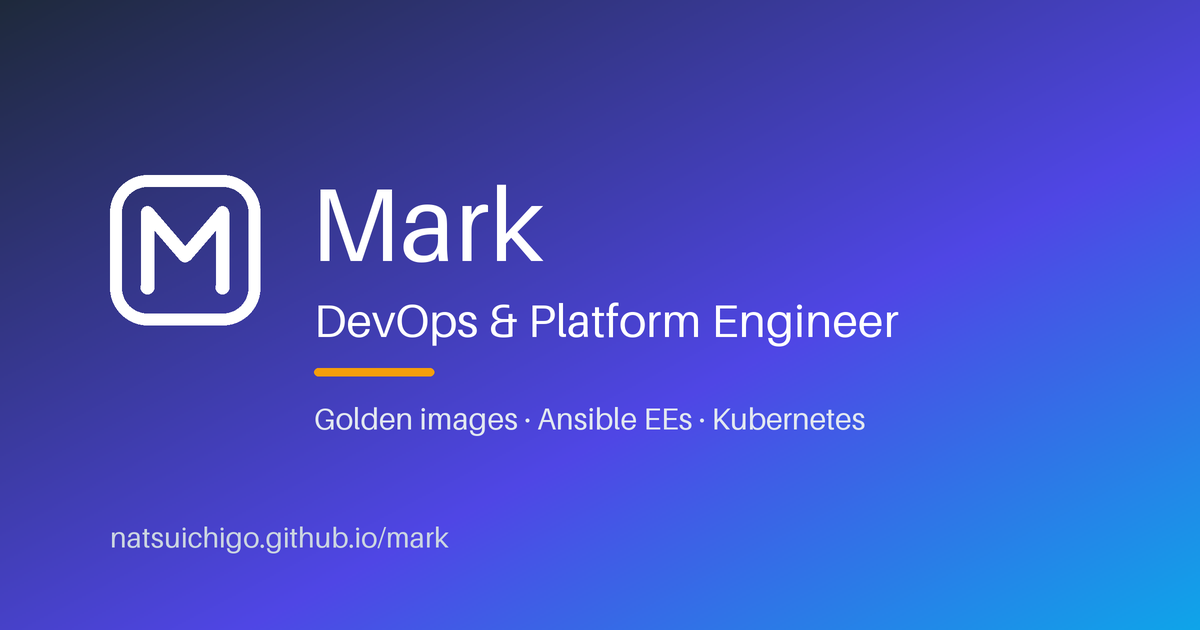
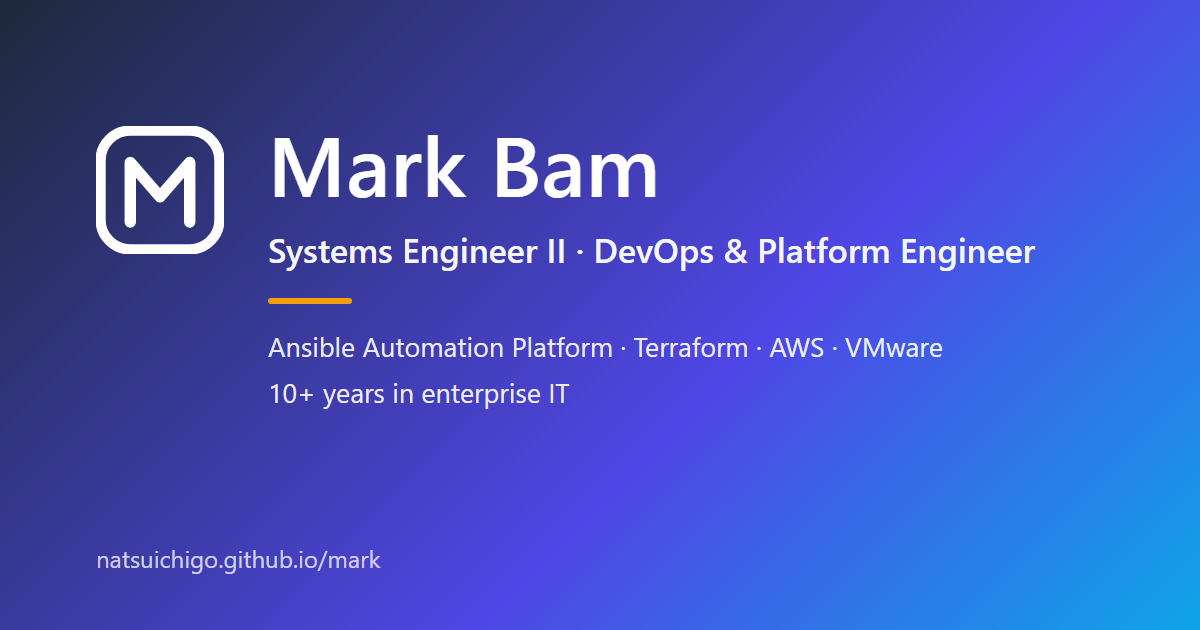
chore: remove outdated CV document

diff --git a/_deploy/index.html b/_deploy/index.html
@@ -3,8 +3,8 @@
 <head>
     <meta charset="utf-8">
     <meta name="viewport" content="width=device-width, initial-scale=1">
-    <title>Mark — DevOps &amp; Platform Engineer</title>
-    <meta name="description" content="Portfolio of Mark, DevOps and Platform Engineer: golden image pipelines, Ansible Execution Environments and a Kubernetes home lab.">
+    <title>Mark Bam — Systems Engineer II · DevOps &amp; Platform Engineer</title>
+    <meta name="description" content="10+ years in enterprise IT. Ansible Automation Platform, Terraform, AWS and VMware: golden image pipelines, Ansible Execution Environments and a Kubernetes home lab.">
     <link rel="stylesheet" href="./assets/hub.css">
     <link rel="stylesheet" href="./assets/site-chrome.css">
 
@@ -18,14 +18,14 @@
     <link rel="icon" href="./assets/favicon-32.png" sizes="32x32" type="image/png">
     <link rel="apple-touch-icon" href="./assets/apple-touch-icon.png">
     <meta property="og:type" content="website">
-    <meta property="og:site_name" content="Mark — DevOps &amp; Platform Engineer">
-    <meta property="og:title" content="Mark — DevOps &amp; Platform Engineer">
-    <meta property="og:description" content="Portfolio of Mark, DevOps and Platform Engineer: golden image pipelines, Ansible Execution Environments and a Kubernetes home lab.">
+    <meta property="og:site_name" content="Mark Bam — Systems Engineer II · DevOps &amp; Platform Engineer">
+    <meta property="og:title" content="Mark Bam — Systems Engineer II · DevOps &amp; Platform Engineer">
+    <meta property="og:description" content="10+ years in enterprise IT. Ansible Automation Platform, Terraform, AWS and VMware: golden image pipelines, Ansible Execution Environments and a Kubernetes home lab.">
     <meta property="og:url" content="https://natsuichigo.github.io/mark/">
-    <meta property="og:image" content="https://natsuichigo.github.io/mark/assets/og-image.png">
+    <meta property="og:image" content="https://natsuichigo.github.io/mark/assets/og-image.png?v=2">
     <meta property="og:image:width" content="1200">
     <meta property="og:image:height" content="630">
-    <meta property="og:image:alt" content="Mark — DevOps &amp; Platform Engineer">
+    <meta property="og:image:alt" content="Mark Bam — Systems Engineer II · DevOps &amp; Platform Engineer">
     <meta name="twitter:card" content="summary_large_image">
     <!-- /site-meta -->
 </head>

diff --git a/_deploy/about/index.html b/_deploy/about/index.html
@@ -3,8 +3,8 @@
 <head>
     <meta charset="utf-8">
     <meta name="viewport" content="width=device-width, initial-scale=1">
-    <title>About — Mark</title>
-    <meta name="description" content="About Mark, DevOps and Platform Engineer: skills, certifications, experience and contact details.">
+    <title>About — Mark Bam</title>
+    <meta name="description" content="Mark Bam, Systems Engineer II and DevOps &amp; Platform Engineer: experience, skills, certifications and education.">
     <link rel="stylesheet" href="../assets/hub.css">
     <link rel="stylesheet" href="../assets/site-chrome.css">
 
@@ -18,14 +18,14 @@
     <link rel="icon" href="../assets/favicon-32.png" sizes="32x32" type="image/png">
     <link rel="apple-touch-icon" href="../assets/apple-touch-icon.png">
     <meta property="og:type" content="website">
-    <meta property="og:site_name" content="Mark — DevOps &amp; Platform Engineer">
-    <meta property="og:title" content="About — Mark">
-    <meta property="og:description" content="About Mark, DevOps and Platform Engineer: skills, certifications, experience and contact details.">
+    <meta property="og:site_name" content="Mark Bam — Systems Engineer II · DevOps &amp; Platform Engineer">
+    <meta property="og:title" content="About — Mark Bam">
+    <meta property="og:description" content="Mark Bam, Systems Engineer II and DevOps &amp; Platform Engineer: experience, skills, certifications and education.">
     <meta property="og:url" content="https://natsuichigo.github.io/mark/about/">
-    <meta property="og:image" content="https://natsuichigo.github.io/mark/assets/og-image.png">
+    <meta property="og:image" content="https://natsuichigo.github.io/mark/assets/og-image.png?v=2">
     <meta property="og:image:width" content="1200">
     <meta property="og:image:height" content="630">
-    <meta property="og:image:alt" content="Mark — DevOps &amp; Platform Engineer">
+    <meta property="og:image:alt" content="Mark Bam — Systems Engineer II · DevOps &amp; Platform Engineer">
     <meta name="twitter:card" content="summary_large_image">
     <!-- /site-meta -->
 </head>

diff --git a/.claude/skills/md-to-docs/scripts/og-image.html b/.claude/skills/md-to-docs/scripts/og-image.html
@@ -1,0 +1,42 @@
+<!DOCTYPE html>
+<!-- Source for _deploy/assets/og-image.png (the link-preview image, 1200x630).
+     Re-render with: ./render_og_image.sh -->
+<html lang="en">
+<head>
+<meta charset="utf-8">
+<style>
+  html, body { margin: 0; width: 1200px; height: 630px; overflow: hidden; }
+  body {
+    background: linear-gradient(135deg, #1e293b 0%, #4f46e5 60%, #0ea5e9 100%);
+    font-family: "Segoe UI", "Helvetica Neue", Arial, sans-serif;
+    color: #ffffff;
+    position: relative;
+  }
+  .wrap { position: absolute; left: 96px; right: 96px; top: 120px; display: flex; gap: 44px; align-items: flex-start; }
+  svg { flex: none; width: 128px; height: 128px; margin-top: 6px; }
+  h1 { margin: 0; font-size: 84px; font-weight: 600; line-height: 1; letter-spacing: 0.5px; }
+  .role { margin: 22px 0 0; font-size: 34px; font-weight: 500; opacity: 0.95; }
+  .bar { width: 84px; height: 6px; border-radius: 3px; background: #f59e0b; margin: 26px 0 24px; }
+  .stack { margin: 0; font-size: 27px; opacity: 0.9; }
+  .years { margin: 10px 0 0; font-size: 27px; opacity: 0.9; }
+  .url { position: absolute; left: 96px; bottom: 56px; font-size: 24px; opacity: 0.75; }
+</style>
+</head>
+<body>
+  <div class="wrap">
+    <svg viewBox="0 0 56 56" aria-hidden="true">
+      <rect x="2" y="2" width="52" height="52" rx="13" fill="none" stroke="#fff" stroke-width="4.5"/>
+      <path d="M15 42 V16 L28 31 L41 16 V42" fill="none" stroke="#fff" stroke-width="5"
+            stroke-linecap="round" stroke-linejoin="round"/>
+    </svg>
+    <div>
+      <h1>Mark Bam</h1>
+      <p class="role">Systems Engineer II · DevOps &amp; Platform Engineer</p>
+      <div class="bar"></div>
+      <p class="stack">Ansible Automation Platform · Terraform · AWS · VMware</p>
+      <p class="years">10+ years in enterprise IT</p>
+    </div>
+  </div>
+  <div class="url">natsuichigo.github.io/mark</div>
+</body>
+</html>

diff --git a/_deploy/docs/packer-image-pipeline/index.html b/_deploy/docs/packer-image-pipeline/index.html
@@ -17,14 +17,14 @@
     <link rel="icon" href="../../assets/favicon-32.png" sizes="32x32" type="image/png">
     <link rel="apple-touch-icon" href="../../assets/apple-touch-icon.png">
     <meta property="og:type" content="website">
-    <meta property="og:site_name" content="Mark — DevOps &amp; Platform Engineer">
+    <meta property="og:site_name" content="Mark Bam — Systems Engineer II · DevOps &amp; Platform Engineer">
     <meta property="og:title" content="Packer Golden Image Pipeline">
     <meta property="og:description" content="Hardened vSphere golden images, built by Packer and Ansible on my home lab&#x27;s runners and validated inside the build so a bad image is never published.">
     <meta property="og:url" content="https://natsuichigo.github.io/mark/docs/packer-image-pipeline/">
-    <meta property="og:image" content="https://natsuichigo.github.io/mark/assets/og-image.png">
+    <meta property="og:image" content="https://natsuichigo.github.io/mark/assets/og-image.png?v=2">
     <meta property="og:image:width" content="1200">
     <meta property="og:image:height" content="630">
-    <meta property="og:image:alt" content="Mark — DevOps &amp; Platform Engineer">
+    <meta property="og:image:alt" content="Mark Bam — Systems Engineer II · DevOps &amp; Platform Engineer">
     <meta name="twitter:card" content="summary_large_image">
     <!-- /site-meta -->
 </head>

diff --git a/_deploy/docs/packer-image-pipeline/overview.html b/_deploy/docs/packer-image-pipeline/overview.html
@@ -16,14 +16,14 @@
     <link rel="icon" href="../../assets/favicon-32.png" sizes="32x32" type="image/png">
     <link rel="apple-touch-icon" href="../../assets/apple-touch-icon.png">
     <meta property="og:type" content="website">
-    <meta property="og:site_name" content="Mark — DevOps &amp; Platform Engineer">
+    <meta property="og:site_name" content="Mark Bam — Systems Engineer II · DevOps &amp; Platform Engineer">
     <meta property="og:title" content="Overview — Packer Golden Image Pipeline">
     <meta property="og:description" content="Hardened vSphere golden images, built by Packer and Ansible, validated inside the build, and run from my home lab.">
     <meta property="og:url" content="https://natsuichigo.github.io/mark/docs/packer-image-pipeline/overview.html">
-    <meta property="og:image" content="https://natsuichigo.github.io/mark/assets/og-image.png">
+    <meta property="og:image" content="https://natsuichigo.github.io/mark/assets/og-image.png?v=2">
     <meta property="og:image:width" content="1200">
     <meta property="og:image:height" content="630">
-    <meta property="og:image:alt" content="Mark — DevOps &amp; Platform Engineer">
+    <meta property="og:image:alt" content="Mark Bam — Systems Engineer II · DevOps &amp; Platform Engineer">
     <meta name="twitter:card" content="summary_large_image">
     <!-- /site-meta -->
 </head>

diff --git a/_deploy/docs/packer-image-pipeline/lessons.html b/_deploy/docs/packer-image-pipeline/lessons.html
@@ -16,14 +16,14 @@
     <link rel="icon" href="../../assets/favicon-32.png" sizes="32x32" type="image/png">
     <link rel="apple-touch-icon" href="../../assets/apple-touch-icon.png">
     <meta property="og:type" content="website">
-    <meta property="og:site_name" content="Mark — DevOps &amp; Platform Engineer">
+    <meta property="og:site_name" content="Mark Bam — Systems Engineer II · DevOps &amp; Platform Engineer">
     <meta property="og:title" content="Lessons &amp; Next Steps — Packer Golden Image Pipeline">
     <meta property="og:description" content="Design decisions that came from real failures, moving to the home lab, and what is left to do.">
     <meta property="og:url" content="https://natsuichigo.github.io/mark/docs/packer-image-pipeline/lessons.html">
-    <meta property="og:image" content="https://natsuichigo.github.io/mark/assets/og-image.png">
+    <meta property="og:image" content="https://natsuichigo.github.io/mark/assets/og-image.png?v=2">
     <meta property="og:image:width" content="1200">
     <meta property="og:image:height" content="630">
-    <meta property="og:image:alt" content="Mark — DevOps &amp; Platform Engineer">
+    <meta property="og:image:alt" content="Mark Bam — Systems Engineer II · DevOps &amp; Platform Engineer">
     <meta name="twitter:card" content="summary_large_image">
     <!-- /site-meta -->
 </head>

diff --git a/_deploy/docs/ansible-ee-pipeline/overview.html b/_deploy/docs/ansible-ee-pipeline/overview.html
@@ -16,14 +16,14 @@
     <link rel="icon" href="../../assets/favicon-32.png" sizes="32x32" type="image/png">
     <link rel="apple-touch-icon" href="../../assets/apple-touch-icon.png">
     <meta property="og:type" content="website">
-    <meta property="og:site_name" content="Mark — DevOps &amp; Platform Engineer">
+    <meta property="og:site_name" content="Mark Bam — Systems Engineer II · DevOps &amp; Platform Engineer">
     <meta property="og:title" content="Overview — Ansible EE Pipeline">
     <meta property="og:description" content="Build, test and promote Ansible Execution Environments for AAP, AWX and ansible-navigator, trimmed for my home lab.">
     <meta property="og:url" content="https://natsuichigo.github.io/mark/docs/ansible-ee-pipeline/overview.html">
-    <meta property="og:image" content="https://natsuichigo.github.io/mark/assets/og-image.png">
+    <meta property="og:image" content="https://natsuichigo.github.io/mark/assets/og-image.png?v=2">
     <meta property="og:image:width" content="1200">
     <meta property="og:image:height" content="630">
-    <meta property="og:image:alt" content="Mark — DevOps &amp; Platform Engineer">
+    <meta property="og:image:alt" content="Mark Bam — Systems Engineer II · DevOps &amp; Platform Engineer">
     <meta name="twitter:card" content="summary_large_image">
     <!-- /site-meta -->
 </head>

diff --git a/_deploy/docs/platform-lab/index.html b/_deploy/docs/platform-lab/index.html
@@ -17,14 +17,14 @@
     <link rel="icon" href="../../assets/favicon-32.png" sizes="32x32" type="image/png">
     <link rel="apple-touch-icon" href="../../assets/apple-touch-icon.png">
     <meta property="og:type" content="website">
-    <meta property="og:site_name" content="Mark — DevOps &amp; Platform Engineer">
+    <meta property="og:site_name" content="Mark Bam — Systems Engineer II · DevOps &amp; Platform Engineer">
     <meta property="og:title" content="Platform Lab">
     <meta property="og:description" content="A full platform stack on an 8 GB laptop, deployed from Git by Argo CD. Work in progress: the GitOps core and in-cluster GitHub runners are underway.">
     <meta property="og:url" content="https://natsuichigo.github.io/mark/docs/platform-lab/">
-    <meta property="og:image" content="https://natsuichigo.github.io/mark/assets/og-image.png">
+    <meta property="og:image" content="https://natsuichigo.github.io/mark/assets/og-image.png?v=2">
     <meta property="og:image:width" content="1200">
     <meta property="og:image:height" content="630">
-    <meta property="og:image:alt" content="Mark — DevOps &amp; Platform Engineer">
+    <meta property="og:image:alt" content="Mark Bam — Systems Engineer II · DevOps &amp; Platform Engineer">
     <meta name="twitter:card" content="summary_large_image">
     <!-- /site-meta -->
 </head>

diff --git a/_deploy/docs/portfolio-site/index.html b/_deploy/docs/portfolio-site/index.html
@@ -17,14 +17,14 @@
     <link rel="icon" href="../../assets/favicon-32.png" sizes="32x32" type="image/png">
     <link rel="apple-touch-icon" href="../../assets/apple-touch-icon.png">
     <meta property="og:type" content="website">
-    <meta property="og:site_name" content="Mark — DevOps &amp; Platform Engineer">
+    <meta property="og:site_name" content="Mark Bam — Systems Engineer II · DevOps &amp; Platform Engineer">
     <meta property="og:title" content="This Portfolio Site">
     <meta property="og:description" content="A static GitHub Pages site with no build step: pages written in Markdown, generated by Claude Code skills, deployed by GitHub Actions.">
     <meta property="og:url" content="https://natsuichigo.github.io/mark/docs/portfolio-site/">
-    <meta property="og:image" content="https://natsuichigo.github.io/mark/assets/og-image.png">
+    <meta property="og:image" content="https://natsuichigo.github.io/mark/assets/og-image.png?v=2">
     <meta property="og:image:width" content="1200">
     <meta property="og:image:height" content="630">
-    <meta property="og:image:alt" content="Mark — DevOps &amp; Platform Engineer">
+    <meta property="og:image:alt" content="Mark Bam — Systems Engineer II · DevOps &amp; Platform Engineer">
     <meta name="twitter:card" content="summary_large_image">
     <!-- /site-meta -->
 </head>

diff --git a/_deploy/docs/packer-image-pipeline/architecture.html b/_deploy/docs/packer-image-pipeline/architecture.html
@@ -17,14 +17,14 @@
     <link rel="icon" href="../../assets/favicon-32.png" sizes="32x32" type="image/png">
     <link rel="apple-touch-icon" href="../../assets/apple-touch-icon.png">
     <meta property="og:type" content="website">
-    <meta property="og:site_name" content="Mark — DevOps &amp; Platform Engineer">
+    <meta property="og:site_name" content="Mark Bam — Systems Engineer II · DevOps &amp; Platform Engineer">
     <meta property="og:title" content="Architecture — Packer Golden Image Pipeline">
     <meta property="og:description" content="How the repository is organised, how a vSphere build is shaped, and where it runs.">
     <meta property="og:url" content="https://natsuichigo.github.io/mark/docs/packer-image-pipeline/architecture.html">
-    <meta property="og:image" content="https://natsuichigo.github.io/mark/assets/og-image.png">
+    <meta property="og:image" content="https://natsuichigo.github.io/mark/assets/og-image.png?v=2">
     <meta property="og:image:width" content="1200">
     <meta property="og:image:height" content="630">
-    <meta property="og:image:alt" content="Mark — DevOps &amp; Platform Engineer">
+    <meta property="og:image:alt" content="Mark Bam — Systems Engineer II · DevOps &amp; Platform Engineer">
     <meta name="twitter:card" content="summary_large_image">
     <!-- /site-meta -->
 </head>

diff --git a/_deploy/docs/portfolio-site/architecture.html b/_deploy/docs/portfolio-site/architecture.html
@@ -17,14 +17,14 @@
     <link rel="icon" href="../../assets/favicon-32.png" sizes="32x32" type="image/png">
     <link rel="apple-touch-icon" href="../../assets/apple-touch-icon.png">
     <meta property="og:type" content="website">
-    <meta property="og:site_name" content="Mark — DevOps &amp; Platform Engineer">
+    <meta property="og:site_name" content="Mark Bam — Systems Engineer II · DevOps &amp; Platform Engineer">
     <meta property="og:title" content="Architecture — This Portfolio Site">
     <meta property="og:description" content="The repo layout, the two kinds of page, and which files are generated rather than written by hand.">
     <meta property="og:url" content="https://natsuichigo.github.io/mark/docs/portfolio-site/architecture.html">
-    <meta property="og:image" content="https://natsuichigo.github.io/mark/assets/og-image.png">
+    <meta property="og:image" content="https://natsuichigo.github.io/mark/assets/og-image.png?v=2">
     <meta property="og:image:width" content="1200">
     <meta property="og:image:height" content="630">
-    <meta property="og:image:alt" content="Mark — DevOps &amp; Platform Engineer">
+    <meta property="og:image:alt" content="Mark Bam — Systems Engineer II · DevOps &amp; Platform Engineer">
     <meta name="twitter:card" content="summary_large_image">
     <!-- /site-meta -->
 </head>

diff --git a/_deploy/docs/portfolio-site/lessons.html b/_deploy/docs/portfolio-site/lessons.html
@@ -16,14 +16,14 @@
     <link rel="icon" href="../../assets/favicon-32.png" sizes="32x32" type="image/png">
     <link rel="apple-touch-icon" href="../../assets/apple-touch-icon.png">
     <meta property="og:type" content="website">
-    <meta property="og:site_name" content="Mark — DevOps &amp; Platform Engineer">
+    <meta property="og:site_name" content="Mark Bam — Systems Engineer II · DevOps &amp; Platform Engineer">
     <meta property="og:title" content="Lessons &amp; Next Steps — This Portfolio Site">
     <meta property="og:description" content="What the no-build approach costs, what the clean-up taught me, and what I would add next.">
     <meta property="og:url" content="https://natsuichigo.github.io/mark/docs/portfolio-site/lessons.html">
-    <meta property="og:image" content="https://natsuichigo.github.io/mark/assets/og-image.png">
+    <meta property="og:image" content="https://natsuichigo.github.io/mark/assets/og-image.png?v=2">
     <meta property="og:image:width" content="1200">
     <meta property="og:image:height" content="630">
-    <meta property="og:image:alt" content="Mark — DevOps &amp; Platform Engineer">
+    <meta property="og:image:alt" content="Mark Bam — Systems Engineer II · DevOps &amp; Platform Engineer">
     <meta name="twitter:card" content="summary_large_image">
     <!-- /site-meta -->
 </head>
